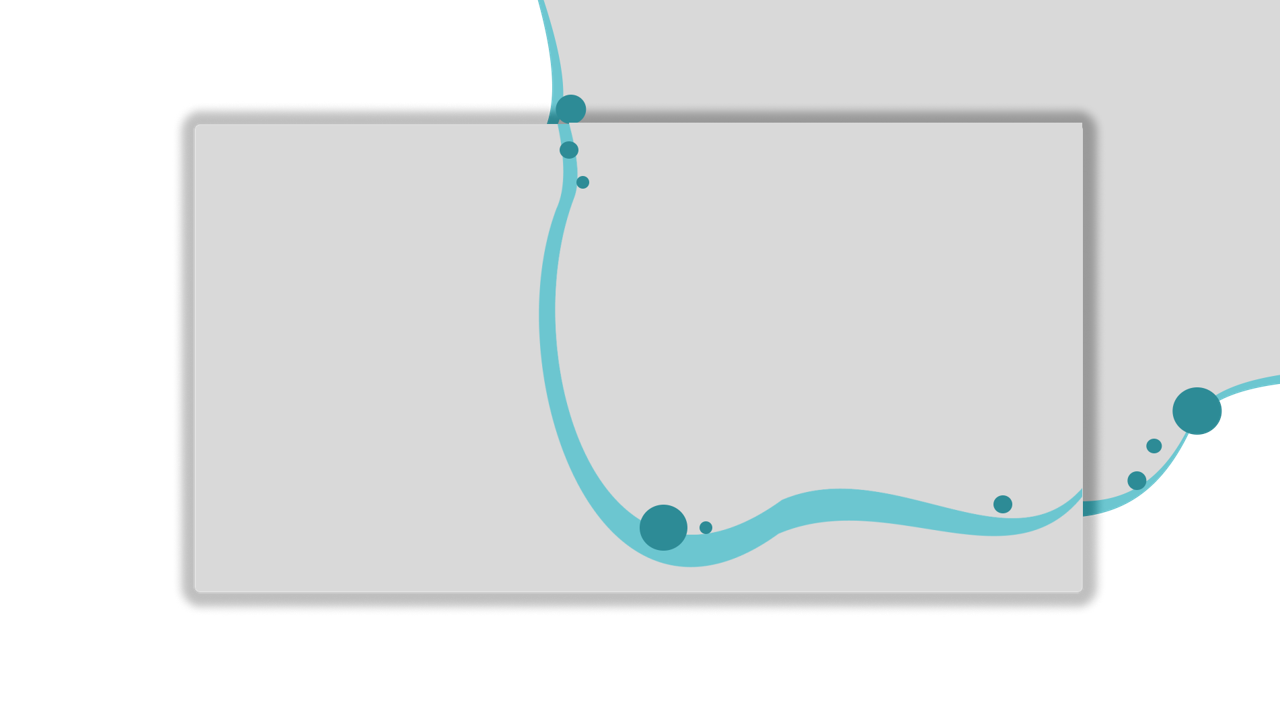
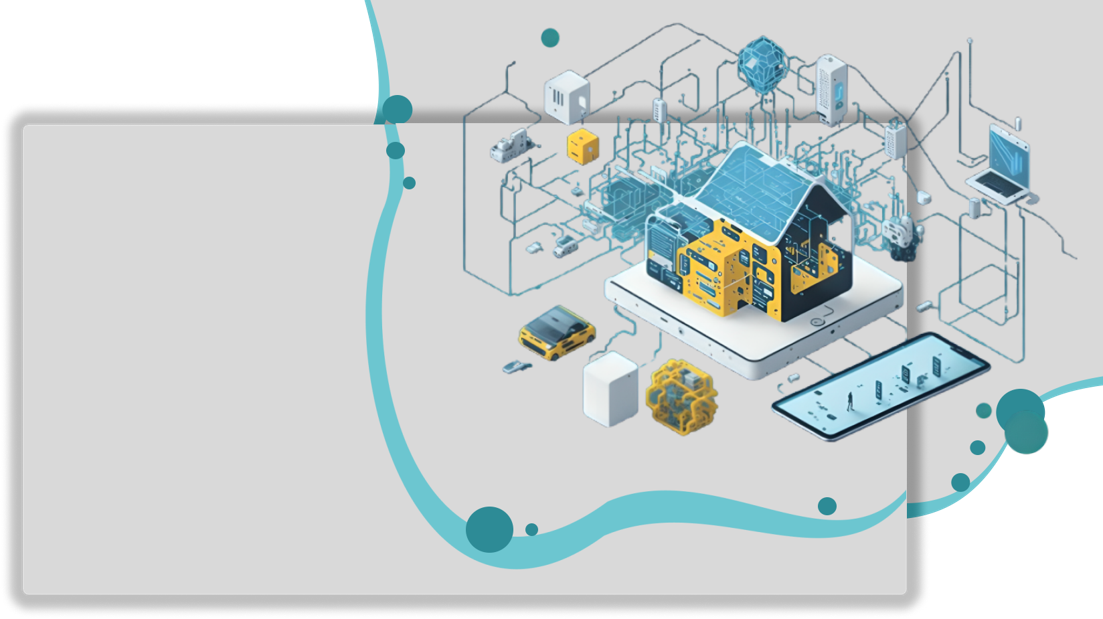
2k25:03/15

diff --git a/assets/css/forgot-password.css b/assets/css/forgot-password.css
@@ -1,0 +1,116 @@
+@font-face {
+  font-family: "Kodchasan"; /* Name of your font */
+  src: url("../fonts/kodchasan/Kodchasan-Light.ttf") format("truetype"); /* Relative path */
+  font-weight: normal; /* Normal weight */
+  font-style: normal; /* Normal style */
+}
+
+* {
+  margin: 0;
+  padding: 0;
+  box-sizing: border-box;
+}
+
+body {
+  display: flex;
+  align-items: center;
+  justify-content: center;
+  height: 100vh; /* Full height of the viewport */
+  background-color: #2d8b96;
+  position: relative;
+  overflow: hidden;
+}
+
+.backgroundImageForgot {
+  position: absolute;
+  top: 0;
+  right: 0;
+  width: 100%;
+  height: 100%;
+  object-fit: fill;
+  z-index: -1;
+}
+
+.backgroundImageForgot {
+  width: 88%;
+  height: 88%;
+}
+
+.leftCont {
+  position: absolute;
+  top: 18%;
+  left: 14%;
+  width: 27%;
+  height: 66%;
+  background-color: rgba(255, 0, 0, 0);
+
+  display: flex; /* Enables flexbox */
+  flex-direction: column; /* Stacks items vertically */
+  align-items: center; /* Centers items horizontally */
+  text-align: center; /* Ensures text is centered */
+}
+
+.spillOne {
+  padding-top: 15%;
+  font-family: "Kodchasan", sans-serif;
+  font-size: 2rem;
+  font-weight: 800;
+  padding-bottom: 8%;
+  color: #2d8b96;
+  width: 100%;
+}
+
+.spillTwo {
+  font-family: "Kodchasan", sans-serif;
+  font-size: 1.2rem;
+  font-weight: 400;
+  padding-bottom: 8%;
+  color: #2d8b96;
+  width: 70%;
+  padding-bottom: 10%;
+}
+
+.inputsign-container {
+  position: relative;
+  display: flex;
+  align-items: center; /* Centers items vertically */
+  justify-content: center; /* Centers input container */
+  width: 100%;
+}
+
+.inputsign-container i {
+  position: absolute;
+  left: 18.5%; /* Adjust icon horizontal position */
+  top: 50%; /* Moves the icon to the middle */
+  transform: translateY(-50%); /* Ensures vertical centering */
+  color: #fff;
+  font-size: 1.2rem;
+}
+
+.inputsign-container input {
+  width: 70%; /* Adjust width as needed */
+  padding: 15px 10px 15px 45px; /* Left padding for icon */
+  border: 1px solid #ddd;
+  border-radius: 50px;
+  background-color: rgba(45, 139, 150, 0.68);
+  color: #fafafa;
+  font-family: "Poppins", sans-serif;
+  font-size: 1.05rem;
+  outline: none;
+  text-align: left;
+}
+
+.inputsign-container input::placeholder {
+  color: rgba(255, 255, 255, 0.7);
+}
+
+.forgotPassButton {
+  font-size: 1rem;
+  font-family: "Kodchasan", sans-serif;
+  margin-top: 10%;
+  padding: 10px 10px 10px 0px;
+  width: 70%;
+  color: #fff;
+  background-color: rgba(45, 139, 150, 0.68);
+  border: none;
+}

diff --git a/templates/forgot-password.php b/templates/forgot-password.php
@@ -1,0 +1,73 @@
+<!DOCTYPE html>
+<html lang="en">
+
+<head>
+    <meta charset="UTF-8">
+    <meta name="viewport" content="width=device-width, initial-scale=1.0">
+    <title>Forgot Password?</title>
+    <link rel="stylesheet" href="https://cdnjs.cloudflare.com/ajax/libs/font-awesome/6.4.2/css/all.min.css">
+    <link rel="stylesheet" href="../assets/css/forgot-password.css">
+</head>
+
+<body>
+    <img class="backgroundImageForgot" src="../assets/images/bg-forgotpass.png" alt="Forgot Password Background">
+
+    <div class="leftCont">
+        <div class="spillOne">
+            HAVING TROUBLE REMEMBERING YOUR PASSWORD?
+        </div>
+        <div class="spillTwo">
+            We will send a secure code to your email to enhance your privacy and security.
+        </div>
+
+        <div class="inputsign-container">
+            <i class="fas fa-envelope"></i> <!-- Email Icon -->
+            <input type="email" id="EmailCheck" name="Email" placeholder="Email" required>
+        </div>
+
+        <button type="submit" class="forgotPassButton">Send Code</button>
+    </div>
+
+    <script>
+        window.onload = function () {
+            document.querySelector(".forgotPassButton").addEventListener("click", function (event) {
+                event.preventDefault(); // Prevent form submission
+
+                let emailInput = document.getElementById("EmailCheck");
+                let email = emailInput.value.trim();
+
+                if (email === "") {
+                    alert("Please enter your email.");
+                    return;
+                }
+
+                console.log("Button clicked, sending request..."); // Debugging log
+
+                // Send email to the backend for validation
+                fetch("../scripts/check-email.php", {
+                    method: "POST",
+                    headers: { "Content-Type": "application/x-www-form-urlencoded" },
+                    body: "email=" + encodeURIComponent(email)
+                })
+                    .then(response => response.text()) // Read as text instead of JSON
+                    .then(data => {
+                        console.log("Raw response from PHP:", data); // Debugging
+                        try {
+                            let jsonData = JSON.parse(data);
+                            if (jsonData.success) {
+                                window.location.href = "../templates/reset-password.php";
+                            } else {
+                                alert(jsonData.message || "No account with that email is found.");
+                            }
+                        } catch (error) {
+                            console.error("JSON Parse Error:", error, "Received:", data);
+                            alert("An error occurred. Check console logs.");
+                        }
+                    })
+                    .catch(error => console.error("Fetch error:", error));
+            });
+        };
+    </script>
+</body>
+
+</html>

diff --git a/scripts/check-email.php b/scripts/check-email.php
@@ -1,0 +1,72 @@
+<?php
+header("Content-Type: application/json"); // Ensure JSON response
+include '../app/config/connection.php'; // Include PDO connection
+require '../vendor/autoload.php'; // Adjust the path as needed
+
+use PHPMailer\PHPMailer\PHPMailer;
+use PHPMailer\PHPMailer\Exception;
+
+// Enable error reporting for debugging (Remove this in production)
+error_reporting(E_ALL);
+ini_set("display_errors", 1);
+
+// Get email from POST request
+$email = isset($_POST['email']) ? trim($_POST['email']) : '';
+
+if (empty($email)) {
+    echo json_encode(["success" => false, "message" => "Email is required"]);
+    exit();
+}
+
+try {
+    // Check if email exists
+    $stmt = $conn->prepare("SELECT user_id FROM users WHERE email = :email");
+    $stmt->bindParam(":email", $email, PDO::PARAM_STR);
+    $stmt->execute();
+
+    if ($stmt->rowCount() > 0) {
+        // Generate a 5-digit OTP
+        $otp = rand(10000, 99999);
+        $expiry = date("Y-m-d H:i:s", strtotime("+10 minutes")); // OTP expires in 10 mins
+
+        // Optional: Store OTP in the database
+        $updateStmt = $conn->prepare("UPDATE users SET otp_code = :otp, otp_expiry = :expiry WHERE email = :email");
+        $updateStmt->bindParam(":otp", $otp, PDO::PARAM_INT);
+        $updateStmt->bindParam(":expiry", $expiry, PDO::PARAM_STR);
+        $updateStmt->bindParam(":email", $email, PDO::PARAM_STR);
+        $updateStmt->execute();
+
+        // Send OTP via email using PHPMailer
+        $mail = new PHPMailer(true);
+
+        try {
+            // Server settings
+            $mail->isSMTP();
+            $mail->Host = 'smtp.gmail.com'; // Set the SMTP server to send through
+            $mail->SMTPAuth = true;
+            $mail->Username = 'jproxxyv1@gmail.com'; // Your SMTP username
+            $mail->Password = '!!!Newaccount@@@'; // Your SMTP password
+            $mail->SMTPSecure = PHPMailer::ENCRYPTION_STARTTLS;
+            $mail->Port = 587;
+
+            // Recipients
+            $mail->setFrom('jproxxyv1@gmail.com', 'RivanIOT');
+            $mail->addAddress($email);
+
+            // Content
+            $mail->isHTML(true);
+            $mail->Subject = 'Your OTP Code';
+            $mail->Body    = "Your OTP for password reset is: <b>$otp</b>. This code expires in 10 minutes.";
+
+            $mail->send();
+            echo json_encode(["success" => true, "message" => "OTP sent successfully"]);
+        } catch (Exception $e) {
+            echo json_encode(["success" => false, "message" => "Mailer Error: {$mail->ErrorInfo}"]);
+        }
+    } else {
+        echo json_encode(["success" => false, "message" => "No account found with this email"]);
+    }
+} catch (PDOException $e) {
+    echo json_encode(["success" => false, "message" => "Database error: " . $e->getMessage()]);
+}
+?>

diff --git a/templates/reset-password.php b/templates/reset-password.php
@@ -1,0 +1,31 @@
+<!DOCTYPE html>
+<html lang="en">
+
+<head>
+    <meta charset="UTF-8">
+    <meta name="viewport" content="width=device-width, initial-scale=1.0">
+    <title>Reset Password</title>
+    <link rel="stylesheet" href="https://cdnjs.cloudflare.com/ajax/libs/font-awesome/6.4.2/css/all.min.css">
+    <link rel="stylesheet" href="../assets/css/forgot-password.css">
+
+</head>
+
+<body>
+    <img class="backgroundImageForgot" src="../assets/images/bg-forgotpass.png" alt="Forgot Password Background">
+
+    <div class="leftCont">
+        <div class="spillOne">
+            HAVING TROUBLE REMEMBERING YOUR PASSWORD ?
+        </div>
+        <div class="spillTwo">
+            We will send a secure code to your email to enhance your privacy and security.
+        </div>
+
+
+
+
+    
+    </div>
+</body>
+
+</html>
